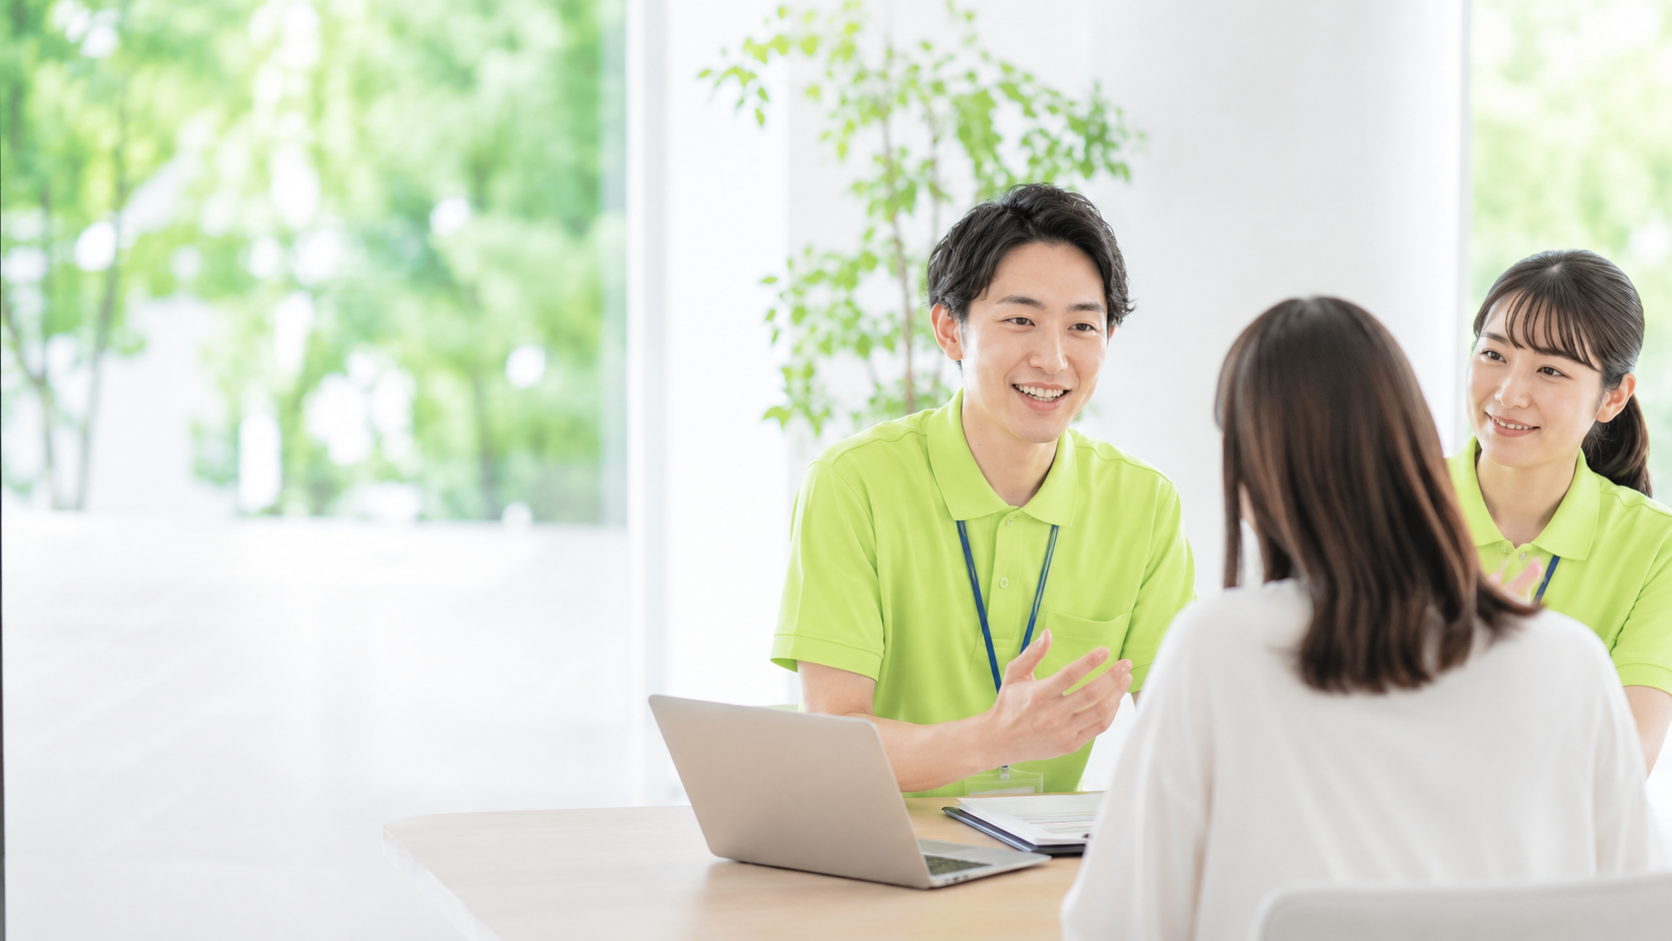
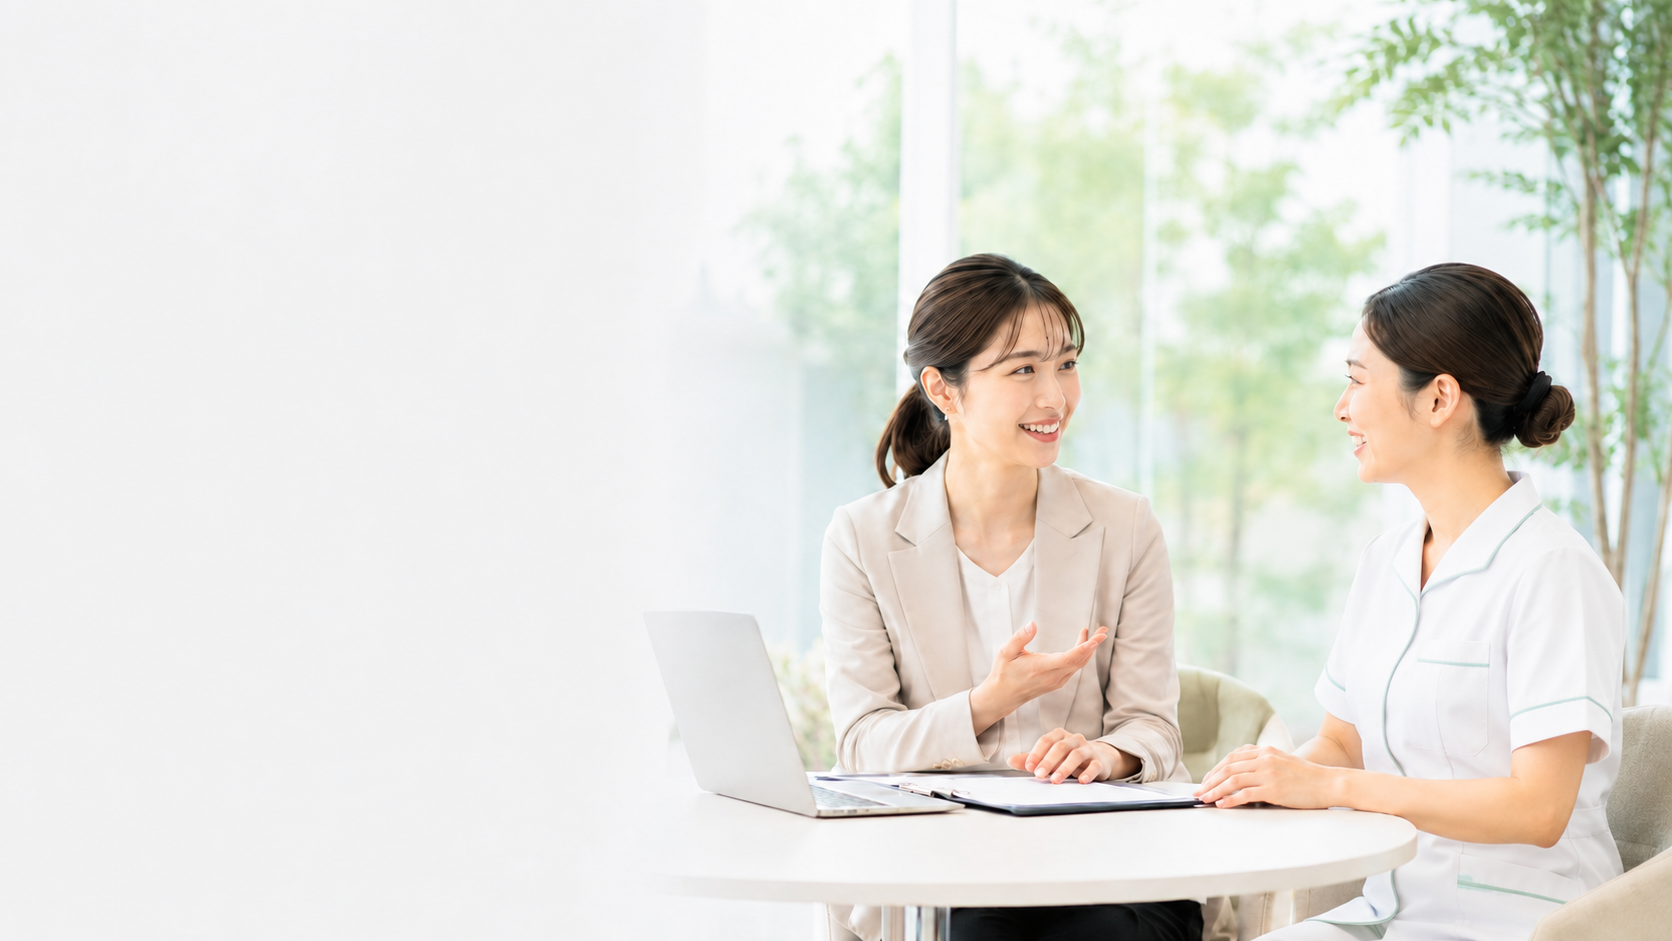
fix: Hero3枚目をビジネス面談画像に差し替え・SP顔位置調整
ポロシャツ男性の面談画像を、スーツ女性のビジネス面談画像に差し替え。
SP用mobileTopを-18remから-5remに変更し顔が隠れないよう調整。

diff --git a/src/components/RecruitHero.tsx b/src/components/RecruitHero.tsx
@@ -26,7 +26,7 @@ const heroImages = [
     srcMobile: `${bp}/images/recruit/hero-02sp.png`,
     alt: "キャリアの仕事風景 3",
     kenburns: "animate-kenburns-3",
-    mobileTop: "-18rem",
+    mobileTop: "-5rem",
   },
   {
     src: `${bp}/images/recruit/hero-01.png`,
